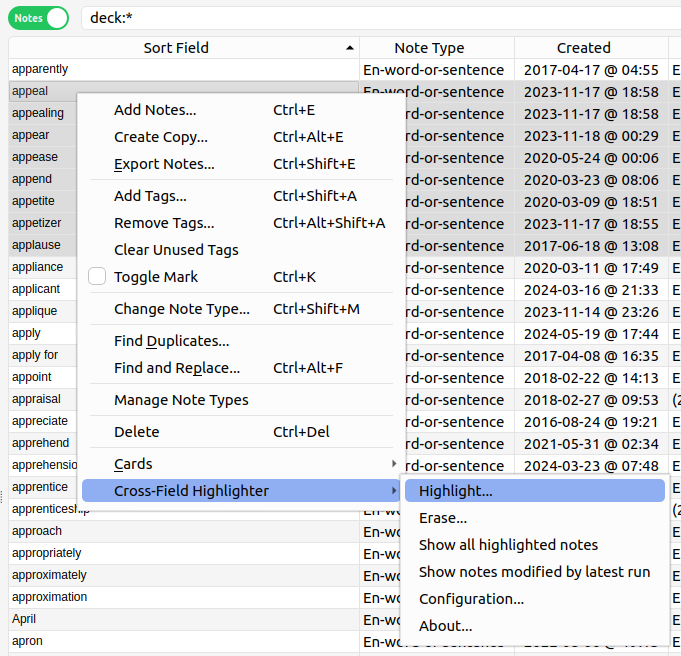
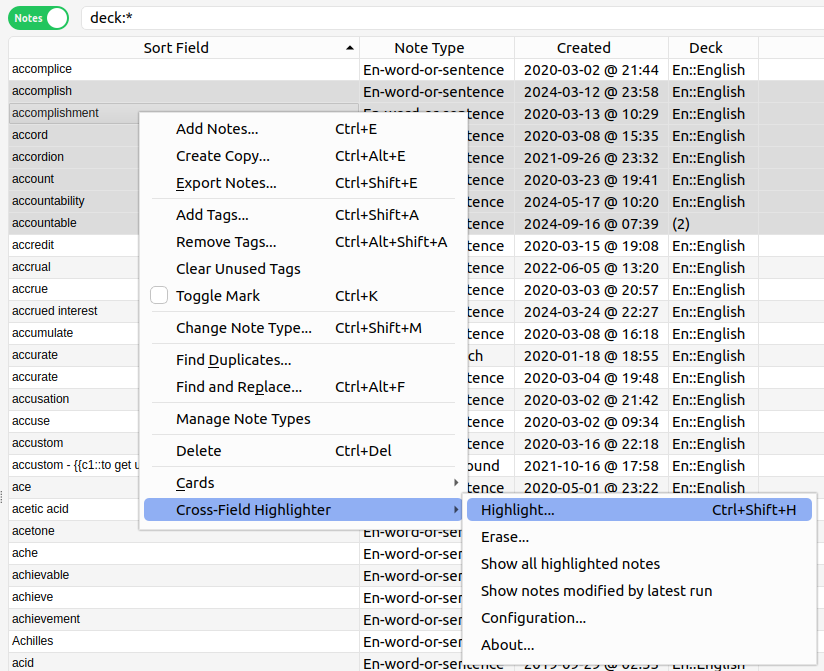
Update docs

diff --git a/docs-template/anki-forum-support-thread-first-post.md b/docs-template/anki-forum-support-thread-first-post.md
@@ -1,4 +1,4 @@
-Hello all, I'd introduce a new addon for language learners. 
+Hello all, I'd introduce a new addon for language learners.
 
 **Please, share your feedback in this topic.**
 
@@ -25,6 +25,7 @@ Hello all, I'd introduce a new addon for language learners.
 8. Idempotence: repeating highlighting the same notes doesn't duplicate highlighting.
 9. HTML tags are skipped from highlighting.
 10. Highlighting notes selected in Browser or current note in Editor.
+11. Shortcut support ("Ctrl+Shift+H" by default)
 
 [/details]
 
@@ -33,6 +34,7 @@ Hello all, I'd introduce a new addon for language learners.
 1. CFH removes previously added highlightings from fields.
 2. CFH marks its own formatting, so it can erase exactly only its formatting and preserve other formatting.
 3. Erasing notes selected in Browser or current note in Editor.
+4. Shortcut support (not set by default)
 
 [/details]
 

diff --git a/docs/anki-forum-support-thread-first-post.md b/docs/anki-forum-support-thread-first-post.md
@@ -1,4 +1,4 @@
-Hello all, I'd introduce a new addon for language learners. 
+Hello all, I'd introduce a new addon for language learners.
 
 **Please, share your feedback in this topic.**
 
@@ -25,6 +25,7 @@ Hello all, I'd introduce a new addon for language learners.
 8. Idempotence: repeating highlighting the same notes doesn't duplicate highlighting.
 9. HTML tags are skipped from highlighting.
 10. Highlighting notes selected in Browser or current note in Editor.
+11. Shortcut support ("Ctrl+Shift+H" by default)
 
 [/details]
 
@@ -33,6 +34,7 @@ Hello all, I'd introduce a new addon for language learners.
 1. CFH removes previously added highlightings from fields.
 2. CFH marks its own formatting, so it can erase exactly only its formatting and preserve other formatting.
 3. Erasing notes selected in Browser or current note in Editor.
+4. Shortcut support (not set by default)
 
 [/details]
 

diff --git a/docs-template/user-manual.md b/docs-template/user-manual.md
@@ -19,10 +19,12 @@ fields:
     8. Idempotence: repeating highlighting the same notes doesn't duplicate highlighting.
     9. HTML tags are skipped from highlighting.
     10. Highlighting notes selected in Browser or current note in Editor.
+    11. Shortcut support ("Ctrl+Shift+H" by default)
 2. Erase:
     1. CFH removes previously added highlightings from fields.
     2. CFH marks its own formatting, so it can erase exactly only its formatting and preserve other formatting.
     3. Erasing notes selected in Browser or current note in Editor.
+    4. Shortcut support (not set by default)
 3. Show in Browser:
     1. Show all highlighted notes
     2. Show notes modified by the latest run

diff --git a/docs/user-manual.md b/docs/user-manual.md
@@ -19,10 +19,12 @@ fields:
     8. Idempotence: repeating highlighting the same notes doesn't duplicate highlighting.
     9. HTML tags are skipped from highlighting.
     10. Highlighting notes selected in Browser or current note in Editor.
+    11. Shortcut support ("Ctrl+Shift+H" by default)
 2. Erase:
     1. CFH removes previously added highlightings from fields.
     2. CFH marks its own formatting, so it can erase exactly only its formatting and preserve other formatting.
     3. Erasing notes selected in Browser or current note in Editor.
+    4. Shortcut support (not set by default)
 3. Show in Browser:
     1. Show all highlighted notes
     2. Show notes modified by the latest run

diff --git a/CHANGELOG.md b/CHANGELOG.md
@@ -72,4 +72,9 @@
 
 1. __[MISC]__ Publish test cases in MarkDown format
 2. __[BUG]__ Empty note type is selected
-3. __[BUG]__ Adjust highlighting algorithm 
+3. __[BUG]__ Adjust highlighting algorithm
+
+## [v1.0.0](https://github.com/Aleks-Ya/cross-field-highlighter-anki-addon/releases/tag/v1.0.0) - 2024-12-29
+
+1. __[MISC]__ Stable release
+2. __[FEATURE]__ Shortcuts work in Browser
